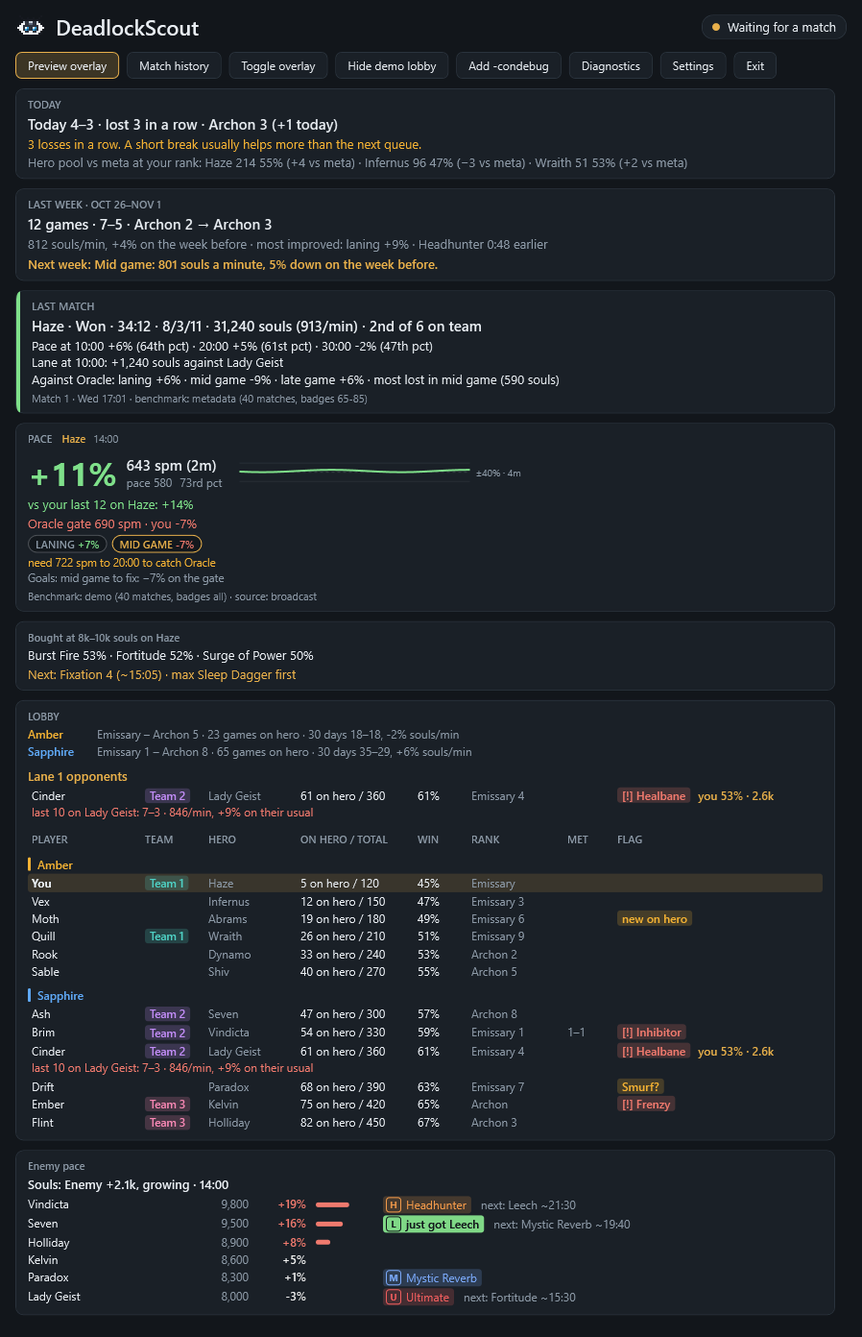
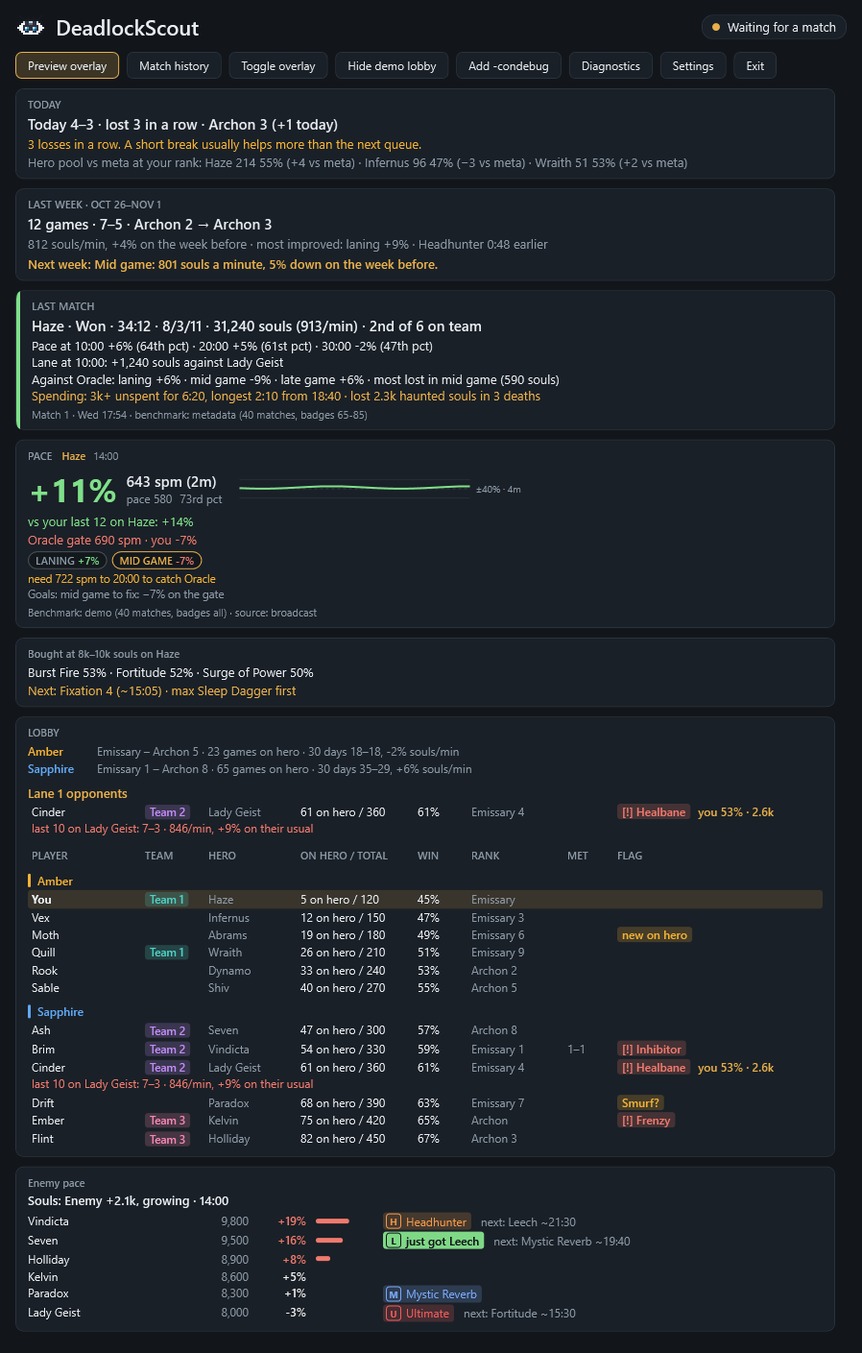
Coaching: souls lost at a death, and a spending recap for the last match (#141)
* Coaching: souls lost at a death, and a spending recap for the last match

Both chosen by the owner for 0.3.3. Core/Meter/SoulsRecap reads the match's
soul samples:
- a death on the HUD: the haunted line was there, the next reading has none and
  unspent souls fell by about as much (secured haunted souls join the count and
  leave unspent souls where they were, so they are no loss). The pace strip says
  "Died at 14:20: lost 1,051 haunted souls" for 30 s, and the log keeps it.
- time on unspent souls at or over coaching.unspentSouls, gaps counted at most
  10 s, with the longest stretch and when it began.
At the match's end the recap ("3k+ unspent for 6:20, longest 2:10 from 18:40 ·
lost 2.3k haunted souls in 3 deaths") is logged and shown on the last match's
card once its report comes. Not while spectating. The demo shows a recap.

Claude-Session: https://claude.ai/code/session_01LSDkBn23Na5vMSKWLtGadZ

* Update app screenshots

---------

diff --git a/src/DeadlockScout.App/Overlay/OverlayWindow.xaml b/src/DeadlockScout.App/Overlay/OverlayWindow.xaml
@@ -249,6 +249,8 @@
                                Visibility="{Binding Pace.CatchUp, Converter={x:Static vm:Converters.VisibleIfNotEmpty}}"/>
                     <TextBlock Text="{Binding Pace.Goals}" FontSize="11.5" Foreground="{StaticResource Muted}" Margin="0,1,0,0" TextWrapping="Wrap"
                                Visibility="{Binding Pace.Goals, Converter={x:Static vm:Converters.VisibleIfNotEmpty}}"/>
+                    <TextBlock Text="{Binding Pace.Loss}" FontSize="11.5" Foreground="{StaticResource Bad}" Margin="0,1,0,0" TextWrapping="Wrap"
+                               Visibility="{Binding Pace.Loss, Converter={x:Static vm:Converters.VisibleIfNotEmpty}}"/>
                     <TextBlock Text="{Binding Pace.Unspent}" FontSize="11.5" Foreground="{StaticResource Gold}" Margin="0,1,0,0" TextWrapping="Wrap"
                                ToolTip="Souls you have not spent yet: they do nothing in a fight. Settings → Overlay sets the threshold"
                                Visibility="{Binding Pace.Unspent, Converter={x:Static vm:Converters.VisibleIfNotEmpty}}"/>

diff --git a/src/DeadlockScout.App/MainWindow.xaml b/src/DeadlockScout.App/MainWindow.xaml
@@ -161,6 +161,8 @@
                                        Visibility="{Binding LastMatch.Lane, Converter={x:Static vm:Converters.VisibleIfNotEmpty}}"/>
                             <TextBlock Text="{Binding LastMatch.Phases}" TextWrapping="Wrap"
                                        Visibility="{Binding LastMatch.Phases, Converter={x:Static vm:Converters.VisibleIfNotEmpty}}"/>
+                            <TextBlock Text="{Binding LastMatch.Recap}" TextWrapping="Wrap" Foreground="{StaticResource Gold}"
+                                       Visibility="{Binding LastMatch.Recap, Converter={x:Static vm:Converters.VisibleIfNotEmpty}}"/>
                             <TextBlock Text="{Binding LastMatch.Footer}" FontSize="11" Foreground="{StaticResource Muted}" TextWrapping="Wrap" Margin="0,4,0,0"/>
                         </StackPanel>
                     </DockPanel>

diff --git a/src/DeadlockScout.Core/Meter/SoulsRecap.cs b/src/DeadlockScout.Core/Meter/SoulsRecap.cs
@@ -1,0 +1,113 @@
+using System.Globalization;
+using DeadlockScout.Core.Benchmarks;
+using DeadlockScout.Core.Models;
+
+namespace DeadlockScout.Core.Meter;
+
+/// <summary>A death seen on the HUD: the haunted souls it took.</summary>
+public sealed record HauntedLoss(TimeSpan At, int Souls);
+
+/// <summary>
+/// What a match's soul readings say about spending, for the match recap (0.3.3): how long you sat on unspent souls
+/// over the coaching threshold, and the haunted souls deaths took.
+/// <list type="bullet">
+/// <item>Unspent time: the game time between readings whose unspent souls were at or over the threshold, a gap counted
+/// at most <see cref="MaxGap"/> (OCR off, the game alt-tabbed), with the longest stretch and when it began.</item>
+/// <item>A death on the HUD: the haunted line was there (at least <see cref="MinHaunted"/>), the next reading has none,
+/// and your unspent souls fell by about as much (<see cref="LossShare"/> of it or more). Secured haunted souls move
+/// into the count instead and leave unspent souls where they were, so they are no loss.</item>
+/// </list>
+/// Fed with the soul source's samples in game-time order (OCR ones carry the haunted souls). Pure, so tested; nothing
+/// here is stored past the match.
+/// </summary>
+public sealed class SoulsRecap
+{
+    public static readonly TimeSpan MaxGap = TimeSpan.FromSeconds(10);
+    public const int MinHaunted = 100;
+    public const double LossShare = 0.8;
+    /// <summary>How long the pace strip names a death's loss.</summary>
+    public static readonly TimeSpan ShowLossFor = TimeSpan.FromSeconds(30);
+
+    private readonly int _threshold;
+    private readonly List<HauntedLoss> _losses = new();
+    private SoulSample? _last;
+    private TimeSpan _over, _longest, _stretch;
+    private TimeSpan? _stretchStart, _longestStart;
+    private readonly object _gate = new();
+
+    /// <param name="threshold">The unspent souls that count as sitting on them (<c>coaching.unspentSouls</c>); 0 counts none.</param>
+    public SoulsRecap(int threshold) => _threshold = threshold;
+
+    public IReadOnlyList<HauntedLoss> Losses { get { lock (_gate) return _losses.ToList(); } }
+
+    /// <summary>One soul sample; returns the loss when this reading shows a death took haunted souls.</summary>
+    public HauntedLoss? Observe(SoulSample s)
+    {
+        if (s.Unspent is not { } unspent) return null;
+        lock (_gate)
+        {
+            if (_last is { } prev && s.GameTime <= prev.GameTime) return null;
+            HauntedLoss? loss = null;
+            if (_last is { Unspent: { } before } p)
+            {
+                var dt = s.GameTime - p.GameTime;
+                if (dt > MaxGap) dt = MaxGap;
+                bool over = _threshold > 0 && before >= _threshold;
+                if (over)
+                {
+                    _over += dt;
+                    _stretchStart ??= p.GameTime;
+                    _stretch += dt;
+                    if (_stretch > _longest) { _longest = _stretch; _longestStart = _stretchStart; }
+                }
+                if (!over || _threshold <= 0 || unspent < _threshold) { _stretch = TimeSpan.Zero; _stretchStart = null; }
+
+                int haunted = p.Haunted ?? 0;
+                if (s.Source == SampleSource.Ocr && p.Source == SampleSource.Ocr && haunted >= MinHaunted && (s.Haunted ?? 0) == 0
+                    && before - unspent >= LossShare * haunted)
+                {
+                    loss = new HauntedLoss(s.GameTime, haunted);
+                    _losses.Add(loss);
+                }
+            }
+            _last = s;
+            return loss;
+        }
+    }
+
+    /// <summary>"Died at 14:20: lost 1,051 haunted souls" for <see cref="ShowLossFor"/> after a loss; null otherwise.</summary>
+    public string? LossLine(TimeSpan now)
+    {
+        lock (_gate)
+        {
+            if (_losses.Count == 0 || now - _losses[^1].At > ShowLossFor || now < _losses[^1].At) return null;
+            var l = _losses[^1];
+            return $"Died at {PaceMath.FormatClock(l.At)}: lost {l.Souls.ToString("N0", CultureInfo.InvariantCulture)} haunted souls";
+        }
+    }
+
+    /// <summary>
+    /// The recap: "3k+ unspent for 6:20, longest 2:10 from 18:40 · lost 2.3k haunted souls in 3 deaths". Null when there
+    /// is nothing to say (no time over the threshold and no loss).
+    /// </summary>
+    public string? Line()
+    {
+        lock (_gate)
+        {
+            var parts = new List<string>();
+            if (_over > TimeSpan.Zero && _threshold > 0)
+            {
+                string limit = _threshold % 1000 == 0 ? $"{_threshold / 1000}k" : TeamSoulsLead.Short(_threshold);
+                string part = $"{limit}+ unspent for {PaceMath.FormatClock(_over)}";
+                if (_longestStart is { } from && _longest < _over) part += $", longest {PaceMath.FormatClock(_longest)} from {PaceMath.FormatClock(from)}";
+                parts.Add(part);
+            }
+            if (_losses.Count > 0)
+            {
+                int total = _losses.Sum(l => l.Souls);
+                parts.Add($"lost {TeamSoulsLead.Short(total)} haunted souls in {_losses.Count} {(_losses.Count == 1 ? "death" : "deaths")}");
+            }
+            return parts.Count == 0 ? null : string.Join(" · ", parts);
+        }
+    }
+}

diff --git a/tests/DeadlockScout.Tests/Core/SoulsRecapTests.cs b/tests/DeadlockScout.Tests/Core/SoulsRecapTests.cs
@@ -1,0 +1,56 @@
+using DeadlockScout.Core.Meter;
+using DeadlockScout.Core.Models;
+
+namespace DeadlockScout.Tests.Core;
+
+public class SoulsRecapTests
+{
+    private static SoulSample Ocr(int seconds, int unspent, int? haunted = null) =>
+        new(TimeSpan.FromSeconds(seconds), 20_000, SampleSource.Ocr, unspent, haunted);
+
+    [Fact]
+    public void Time_on_unspent_souls_over_the_threshold_adds_up_with_the_longest_stretch()
+    {
+        var recap = new SoulsRecap(3_000);
+        // 10:00–10:59 under, 11:00–12:59 over (2:00), 13:00–13:59 under, 14:00–14:29 over (0:30).
+        for (int t = 600; t < 900; t++)
+            recap.Observe(Ocr(t, t is >= 660 and < 780 || t >= 840 && t < 870 ? 3_500 : 1_000));
+        Assert.Equal("3k+ unspent for 2:30, longest 2:00 from 11:00", recap.Line());
+    }
+
+    [Fact]
+    public void A_gap_counts_at_most_ten_seconds()
+    {
+        var recap = new SoulsRecap(3_000);
+        recap.Observe(Ocr(600, 4_000));
+        recap.Observe(Ocr(900, 4_000)); // five minutes without a reading
+        Assert.Equal("3k+ unspent for 0:10", recap.Line());
+    }
+
+    [Fact]
+    public void A_death_that_takes_the_haunted_souls_is_a_loss_and_securing_them_is_not()
+    {
+        var recap = new SoulsRecap(0);
+        recap.Observe(Ocr(600, 2_000, haunted: 1_051));
+        var loss = recap.Observe(Ocr(601, 949));          // died: the haunted line gone, unspent down by about as much
+        Assert.Equal(new HauntedLoss(TimeSpan.FromSeconds(601), 1_051), loss);
+        Assert.Equal("Died at 10:01: lost 1,051 haunted souls", recap.LossLine(TimeSpan.FromSeconds(620)));
+        Assert.Null(recap.LossLine(TimeSpan.FromSeconds(640)));   // shown for 30 s
+
+        recap.Observe(Ocr(700, 1_500, haunted: 600));
+        Assert.Null(recap.Observe(Ocr(701, 1_500)));      // secured: they joined the count, unspent unchanged
+        recap.Observe(Ocr(800, 3_000, haunted: 1_300));
+        Assert.NotNull(recap.Observe(Ocr(801, 1_700)));
+        Assert.Equal("lost 2.4k haunted souls in 2 deaths", recap.Line());
+    }
+
+    [Fact]
+    public void Nothing_to_say_without_time_over_or_losses()
+    {
+        var recap = new SoulsRecap(3_000);
+        for (int t = 0; t < 60; t++) recap.Observe(Ocr(t, 500));
+        Assert.Null(recap.Line());
+        Assert.Null(recap.Observe(new SoulSample(TimeSpan.FromSeconds(61), 9_000, SampleSource.LiveFeed))); // no unspent known
+        Assert.Null(recap.Observe(Ocr(30, 9_000)));       // out of order
+    }
+}

diff --git a/src/DeadlockScout.App/Services/MatchSession.cs b/src/DeadlockScout.App/Services/MatchSession.cs
@@ -145,6 +145,11 @@ public sealed class MatchSession : IDisposable
         if (_diagnostics.Snapshot().Match is { Performance: { } perf } m)
             _log.LogInformation("Performance during match {MatchId}{Spectated}: {Line}", m.MatchId, m.Spectating ? " (spectated)" : "", perf.Line);
         RecordPlayed(matchId);
+        if (_ctx is { Spectating: false } && _state.Recap.Line() is { } recap)
+        {
+            _log.LogInformation("Match {MatchId} spending: {Recap}", matchId, recap);
+            _state.SetRecap(matchId, recap);
+        }
         _matchCts?.Cancel();
         _feed.Stop(matchId);
         _gate.MatchEnded();
@@ -205,6 +210,7 @@ public sealed class MatchSession : IDisposable
             _state.Targets = !ctx.Spectating && _settings.CurrentValue.Overlay.Panels.LiveGoals ? _settings.CurrentValue.Targets : new TargetSettings();
             _state.UnspentThreshold = ctx.Spectating ? 0 : _settings.CurrentValue.Coaching.UnspentSouls;
             _state.HauntedThreshold = ctx.Spectating ? 0 : _settings.CurrentValue.Coaching.HauntedSouls;
+            _state.Recap = new SoulsRecap(ctx.Spectating ? 0 : _settings.CurrentValue.Coaching.UnspentSouls);
             var goalTask = heroId > 0 && !ctx.Spectating && _settings.CurrentValue.Goal.Overlay ? LoadGoalCurveAsync(heroId, me?.Rank, ct) : Task.CompletedTask;
             var nextItemTask = heroId > 0 && !ctx.Spectating && _settings.CurrentValue.Overlay.Panels.NextItem
                 ? LoadNextItemAsync(ctx.MyAccountId, heroId, me?.Rank, ct) : Task.CompletedTask;
@@ -499,6 +505,8 @@ public sealed class MatchSession : IDisposable
         {
             _state.Meter.Add(sample);
             _state.LatestSample = sample;
+            if (_ctx is { Spectating: false } && _state.Recap.Observe(sample) is { } loss)
+                _log.LogInformation("Died at {At}: lost {Souls:N0} haunted souls (seen on the HUD)", PaceMath.FormatClock(loss.At), loss.Souls);
             _state.Pace.SourceLabel = sample.Source == SampleSource.Ocr ? "OCR" : "broadcast";
             if (sample.Source == SampleSource.Ocr)
             {

diff --git a/src/DeadlockScout.App/ViewModels/OverlayState.cs b/src/DeadlockScout.App/ViewModels/OverlayState.cs
@@ -94,6 +94,12 @@ public sealed class OverlayState
     /// after souls lost at a death): the unspent-souls line reads it.
     /// </summary>
     public volatile SoulSample? LatestSample;
+    /// <summary>This match's spending recap and haunted losses (<see cref="SoulsRecap"/>), fed with every soul sample.</summary>
+    public volatile SoulsRecap Recap = new(0);
+    private readonly System.Collections.Concurrent.ConcurrentDictionary<long, string> _recaps = new();
+
+    /// <summary>Keeps a finished match's recap line for its card once the post-match report comes.</summary>
+    public void SetRecap(long matchId, string line) => _recaps[matchId] = line;
     public volatile int MyDeathsRaw = -1;
     public int? MyDeaths { get => MyDeathsRaw < 0 ? null : MyDeathsRaw; set => MyDeathsRaw = value ?? -1; }
     public static readonly TimeSpan MatchRetention = TimeSpan.FromHours(2);
@@ -310,6 +316,7 @@ public sealed class OverlayState
         LastMatch.Phases = PhaseLine(r);
         LastMatch.Footer = $"Match {r.MatchId} · {r.StartTime.ToLocalTime():ddd HH:mm}" +
                            (r.BenchmarkProvider is { } prov ? $" · benchmark: {prov} ({r.BenchmarkSampleSize} matches, badges {r.Bracket})" : "");
+        LastMatch.Recap = _recaps.TryGetValue(r.MatchId, out var recap) ? "Spending: " + recap : "";
         LastMatch.Won = r.Won;
         LastMatch.HasData = true;
     }
@@ -323,6 +330,7 @@ public sealed class OverlayState
         var current = all.LastOrDefault(p => p.To == now && (Phases.End(p.Phase) is not { } e || now < e));
         Pace.Goals = Meter.Latest is { } latest ? LiveGoals.Line(Targets, now, latest.Souls, MyDeaths, current) ?? "" : "";
         Pace.Unspent = UnspentSouls.Line(LatestSample, UnspentThreshold, HauntedThreshold) ?? "";
+        Pace.Loss = LatestSample is { } newest ? Recap.LossLine(newest.GameTime) ?? "" : "";
         foreach (var (slot, i) in Pace.PhaseSlots.Select((s, i) => (s, i)))
         {
             var p = live.FirstOrDefault(r => (int)r.Phase == i);

diff --git a/src/DeadlockScout.App/ViewModels/PanelViewModels.cs b/src/DeadlockScout.App/ViewModels/PanelViewModels.cs
@@ -92,6 +92,9 @@ public sealed class PaceStripViewModel : ObservableObject
     /// <summary>"need 640 spm to 20:00 to catch Oracle", while behind in a phase that has an end; else empty.</summary>
     public string CatchUp { get => _catchUp; set => Set(ref _catchUp, value); }
     private string _goals = "";
+    private string _loss = "";
+    /// <summary>"Died at 14:20: lost 1,051 haunted souls" for half a minute after a death took them, or empty.</summary>
+    public string Loss { get => _loss; set => Set(ref _loss, value); }
     /// <summary>"Goals: on track for 420 spm by 10:00 · one laning death left", or empty.</summary>
     public string Goals { get => _goals; set => Set(ref _goals, value); }
     private string _unspent = "";
@@ -214,6 +217,9 @@ public sealed class PostMatchViewModel : ObservableObject
     private bool _hasData;
     /// <summary>"Haze · Won · 34:12 · 8/3/11 · 31,240 souls (913/min) · 2nd of 6 on team".</summary>
     public string Title { get => _title; set => Set(ref _title, value); }
+    private string _recap = "";
+    /// <summary>"Spending: 3k+ unspent for 6:20, longest 2:10 from 18:40 · lost 2.3k haunted souls in 3 deaths", or empty.</summary>
+    public string Recap { get => _recap; set => Set(ref _recap, value); }
     /// <summary>"Pace at 10:00 +6% (64th pct) · 20:00 +3% · 30:00 −2%".</summary>
     public string Pace { get => _pace; set => Set(ref _pace, value); }
     /// <summary>"Lane at 10:00: +1,240 souls against Lady Geist".</summary>

diff --git a/src/DeadlockScout.App/Services/DemoLobby.cs b/src/DeadlockScout.App/Services/DemoLobby.cs
@@ -139,6 +139,8 @@ public static class DemoLobby
             new[] { new PhaseChange(GamePhase.Laning, 690, 752), new PhaseChange(GamePhase.Mid, 840, 801), new PhaseChange(GamePhase.Late, 990, 1004) },
             new PhaseChange(GamePhase.Laning, 690, 752), new ItemChange(4053935515, new TimeSpan(0, 15, 9), new TimeSpan(0, 14, 21), 6),
             new WeeklyFocus(FocusKind.Phase, "Mid game: 801 souls a minute, 5% down on the week before.")), assets, demo: true);
+        // That match's spending recap, from its soul readings (made up).
+        state.SetRecap(1, "3k+ unspent for 6:20, longest 2:10 from 18:40 · lost 2.3k haunted souls in 3 deaths");
         // The previous match's report, as it appears once the API has processed a match.
         state.SetLastMatch(new PostMatchReport(1, 13, true, DateTimeOffset.Now.AddMinutes(-52), new TimeSpan(0, 34, 12), 8, 3, 11, 31240, 2, 6,
             new[]

diff --git a/docs/features.md b/docs/features.md
@@ -13,7 +13,7 @@ window.
 - **Build hint**: what your hero's players buy at your current souls, with their win rate, and your next usual ability point. Under it, the **next item nudge**: your usual next big item on this hero (3,000 souls and up, from your last 30 games, skipping what you already own) and when the rank gate's players have it, "Next: Fortitude · Oracle has it by 14:44 · in 0:24", gold 30 s before and red once you are past it. With the rank's soul curve it says it **at your pace** instead (0.3): how long, at your souls per minute over the last two minutes, until you have the souls the rank's players have when they buy it ("Next: Fortitude ~2:10 at your pace · Oracle 16:30", or "you have Oracle's souls for it"); not once you are past the rank's time, and none beyond ten minutes. It compares net worth with net worth, so it needs no guess at how many of your souls are unspent. `overlay.panels.nextItem` turns it off.
 - **Real-time souls by OCR** (M6, opt in): draw boxes over your soul count, the match clock and the enemy scoreboard souls, and the built-in Windows OCR reads them once a second, so your pace no longer lags the broadcast by a minute. The HUD's counter is your unspent souls, so the app adds the price of the items the broadcast says you hold, and of anything you bought since (a drop of about one item's price, read twice), to make it your net worth, which is what the pace curves count (0.3); haunted souls (unsecured: spendable, lost if you die), shown in a smaller line under the count, are read and added to your unspent souls, and the "SOULS" label beside the count is left out (0.3.1); Diagnostics' "OCR net worth" line says how close that came to the broadcast's once it caught up. While you are dead the game shows a teammate's souls in your HUD's place; those readings are held back (up to two minutes by the PC's clock, so a misread match clock cannot cut the hold short) and dropped, so cycling through teammates no longer moves your souls per minute. The clock read off the HUD has to follow the last good one (never backwards, never further ahead than the real time since), so a misread clock ("22:52" for 12:52) never places your souls at the wrong time: one digit off, it is put right to the clock that was due (0.3.3; OCR mixes up 9 and 0, 7 and 3, 1 and 2), and further off its whole reading is dropped; the log counts the clock readings ignored. The calibration tool reads the selected box live and says what is wrong with it: red when the reading is not a number (or a clock), gold when the box also reads something besides the number ("768 9": a stray glyph) or when its readings jump in a way the game never does (768 then 7,689: the soul icon read as a digit now and then), blue with "steady" when it reads cleanly. **Glyph reader** (0.3): each steady reading also teaches the app the HUD's digits, and once it knows all ten it reads the souls and the clock itself, a few pixels' comparison instead of a full OCR engine, asking Windows OCR only for a box it cannot read clearly (so with clean boxes Windows OCR never even loads). The clock and the souls count are drawn in different fonts, so each box learns its own digits (0.3.1): keep the match clock selected in the tool for ten seconds or so while it ticks and it learns the clock's; the souls count learns its own as your souls change, in the tool or during a match from readings that pass the app's checks. The tool's line under the reading says what the selected box still misses, and **Teach this box again** under it forgets that box's glyphs to learn them afresh (after a patch changed the HUD font) (0.3.3). During a match, a box that reads nothing for 45 s while the game is in front (drawn wrong, or the HUD moved) is named once in the tray (0.3.3); a click opens the calibration tool. The souls box's preview outlines what is read (0.3.3): the count in blue, the soul icon in grey once the glyph reader has learned it (an extra glyph left of the number that the readings never include; from then on it is cut off before every read, so the box may start at the icon), and haunted souls in red. Diagnostics shows how many reads it answers, and asks for a recalibration when most of them fall back (a patch changed the HUD font). `ocr.glyphReader` in Settings → OCR turns it off. Only those boxes are ever captured, never the rest of the screen, and nothing while OCR is off. Needs Windows 10 2004 or later and a Windows language with OCR support (English is).
 - **Post-match report**: result, K/D/A, souls per minute, where you ranked on your team, your pace against the benchmark at 10, 20 and 30 minutes, how your lane went, and each phase against the rank above yours ("Against Oracle: laning +6% · mid game −9% · late game +6% · most lost in mid game"), shown in the main window and as a tray notice once deadlock-api has the match. Replay salts from your Steam cache are sent to deadlock-api automatically (once per match; `ingest.autoSubmitSalts`) so your matches get on record; they land in Steam's cache when you open a match in Deadlock's in-game match history, and **Send my matches to deadlock-api** in the match history sends them at once and says what it found (Diagnostics shows the last scan).
-- **Match history**: your last 20 games with your rank over 30 days, win rate, KDA, main heroes and the last 15 results, then a card per game (result, hero, K/D/A, final items, souls and souls per minute, last hits, where your souls ranked on your team, both teams). Each card puts your total souls beside the K/D/A. Open a game for its **soul timeline** (your souls through the match, with every item you bought marked where you bought it, coloured by slot, and a dashed **rank gate**: the average souls on that hero of a rank you pick from a drop-down, Eternus down to Alchemist, starting on the tier above yours, with how far above or below it you finished, split into laning, mid game and late game chips; the timeline marks the three phases) and its **item purchases** in order, sold ones included. An **item timings** card lists the items you buy most with your average buy time against the rank gate's ("Headhunter 13:58 · Oracle 12:07 · +1:51"), and names the item furthest behind; each purchase on an opened game shows the rank's time and your gap too. A **phases** card pools laning (0–10 min), mid game (10–20) and late game (20+) over the page's games against the rank gate: your souls per minute and the rank's in each, how many souls a game you are behind or ahead, and which phase costs you the most. Above the cards, **trends** over your last 20, 50 or 100 games, for all heroes or one: rolling win rate and souls per minute (each game a dot coloured by result), the older half against the newer half for win rate, souls per minute and KDA, and a row per hero (games, W–L, win rate, KDA, souls per minute, last played), all from the history already fetched. **Soul sources**: an opened game lists where its souls came from (troopers, jungle, kills, objectives, the rest, and what you lost on death), each against the rank gate, and a card over the page names the source that costs you the most souls a game ("Troopers cost you the most: 1.2k souls a game behind Oracle"). **Weekly summary**: a "last week" card in the main window sets your last full week against the week before (games, record, rank change, souls per minute, the phase and item that improved most) and names one thing to work on next week. **Goals**: set your own targets in the match history (laning pace by 10:00, at most so many deaths in laning, a phase to fix against the rank gate); every game is marked hit or missed, and the card shows each target's hit rate over your last 20 games with a dot per game. During a match (0.3) the pace strip checks them live under the phase chips: "Goals: on track for 420 spm by 10:00 · one laning death left" (or the pace the rest of laning needs), then, while the phase you chose to fix is on, "mid game to fix: −7% on the gate". Your deaths come from the broadcast; not while spectating; `overlay.panels.liveGoals` turns it off. **Unspent souls** (0.3): from 3,000 souls not spent (Settings → Overlay, `coaching.unspentSouls`; 0 turns it off) the pace strip says "3.4k unspent: spend before you fight", live from the HUD's counter with OCR on, else from the broadcast's net worth less the items held, with its game time since it is about 35 s late. **Haunted souls at risk** (0.3.3): haunted souls are lost if you die, so from 1,000 of them (`coaching.hauntedSouls`, read by OCR) the line adds "1.1k of it haunted, lost if you die", or says "1.2k haunted souls: lost if you die, spend or secure them" on its own. **Death review**: each death on an opened game with the souls you were carrying unspent (red at 3k or more) and a cross on the soul timeline, the souls the rank gate gained while you were dead, and a card over the page ("Spend before you fight: 9 of 24 deaths came with 3k or more souls unspent"). **Counter notes**: an opened game lists each enemy hero with their counter items for the hero you played (the same measured items as the scout list's [!] tags, up to three, each marked bought or not in that game), and a **heroes that beat you** card names the enemy heroes you lose to most over the page (your W–L with them in the enemy line-up) with their counter items. One cached call per hero pair, made when a game is first opened. One bulk call fetches the games not seen before; a finished game is cached for good. **Processing cards**: a game you just played shows at the top straight away (hero, when, roughly how long), even before deadlock-api lists it in your history, which can take hours; it becomes a full card as soon as the API has the match, and the post-match follow-up asks deadlock-api to fetch it from Steam twice (8 and 60 minutes after the match) when nobody else has sent it. From the main window or the tray.
+- **Match history**: your last 20 games with your rank over 30 days, win rate, KDA, main heroes and the last 15 results, then a card per game (result, hero, K/D/A, final items, souls and souls per minute, last hits, where your souls ranked on your team, both teams). Each card puts your total souls beside the K/D/A. Open a game for its **soul timeline** (your souls through the match, with every item you bought marked where you bought it, coloured by slot, and a dashed **rank gate**: the average souls on that hero of a rank you pick from a drop-down, Eternus down to Alchemist, starting on the tier above yours, with how far above or below it you finished, split into laning, mid game and late game chips; the timeline marks the three phases) and its **item purchases** in order, sold ones included. An **item timings** card lists the items you buy most with your average buy time against the rank gate's ("Headhunter 13:58 · Oracle 12:07 · +1:51"), and names the item furthest behind; each purchase on an opened game shows the rank's time and your gap too. A **phases** card pools laning (0–10 min), mid game (10–20) and late game (20+) over the page's games against the rank gate: your souls per minute and the rank's in each, how many souls a game you are behind or ahead, and which phase costs you the most. Above the cards, **trends** over your last 20, 50 or 100 games, for all heroes or one: rolling win rate and souls per minute (each game a dot coloured by result), the older half against the newer half for win rate, souls per minute and KDA, and a row per hero (games, W–L, win rate, KDA, souls per minute, last played), all from the history already fetched. **Soul sources**: an opened game lists where its souls came from (troopers, jungle, kills, objectives, the rest, and what you lost on death), each against the rank gate, and a card over the page names the source that costs you the most souls a game ("Troopers cost you the most: 1.2k souls a game behind Oracle"). **Weekly summary**: a "last week" card in the main window sets your last full week against the week before (games, record, rank change, souls per minute, the phase and item that improved most) and names one thing to work on next week. **Goals**: set your own targets in the match history (laning pace by 10:00, at most so many deaths in laning, a phase to fix against the rank gate); every game is marked hit or missed, and the card shows each target's hit rate over your last 20 games with a dot per game. During a match (0.3) the pace strip checks them live under the phase chips: "Goals: on track for 420 spm by 10:00 · one laning death left" (or the pace the rest of laning needs), then, while the phase you chose to fix is on, "mid game to fix: −7% on the gate". Your deaths come from the broadcast; not while spectating; `overlay.panels.liveGoals` turns it off. **Unspent souls** (0.3): from 3,000 souls not spent (Settings → Overlay, `coaching.unspentSouls`; 0 turns it off) the pace strip says "3.4k unspent: spend before you fight", live from the HUD's counter with OCR on, else from the broadcast's net worth less the items held, with its game time since it is about 35 s late. **Haunted souls at risk** (0.3.3): haunted souls are lost if you die, so from 1,000 of them (`coaching.hauntedSouls`, read by OCR) the line adds "1.1k of it haunted, lost if you die", or says "1.2k haunted souls: lost if you die, spend or secure them" on its own. **Souls lost at a death** (0.3.3): when the haunted line vanishes and your unspent souls fall by about as much, a death took them, and the pace strip says "Died at 14:20: lost 1,051 haunted souls" for half a minute (OCR only). **Spending recap** (0.3.3): the last match's card adds "Spending: 3k+ unspent for 6:20, longest 2:10 from 18:40 · lost 2.3k haunted souls in 3 deaths", from that match's soul readings. **Death review**: each death on an opened game with the souls you were carrying unspent (red at 3k or more) and a cross on the soul timeline, the souls the rank gate gained while you were dead, and a card over the page ("Spend before you fight: 9 of 24 deaths came with 3k or more souls unspent"). **Counter notes**: an opened game lists each enemy hero with their counter items for the hero you played (the same measured items as the scout list's [!] tags, up to three, each marked bought or not in that game), and a **heroes that beat you** card names the enemy heroes you lose to most over the page (your W–L with them in the enemy line-up) with their counter items. One cached call per hero pair, made when a game is first opened. One bulk call fetches the games not seen before; a finished game is cached for good. **Processing cards**: a game you just played shows at the top straight away (hero, when, roughly how long), even before deadlock-api lists it in your history, which can take hours; it becomes a full card as soon as the API has the match, and the post-match follow-up asks deadlock-api to fetch it from Steam twice (8 and 60 minutes after the match) when nobody else has sent it. From the main window or the tray.
 - **Session view**: today's wins and losses, your streak, how your rank moved, a nudge after three losses in a row, and your most played heroes against their meta win rate at your rank. In the overlay only outside a match, and in the main window.
 - **Benchmarks ready at match start**: between matches the app prefetches the accurate and personal pace curves for the heroes you play most.
 - **Team souls lead** (0.3): at the top of the enemy pace board, one line with both teams' souls from the broadcast and how the gap moved over the last three minutes ("Souls: Enemy +2.1k, growing · 14:00"; "closing" when the trailing team gains, "steady" within 500), so a fight or an objective that swung the game shows. As late as everything from the broadcast, so it carries its game time; shown once every player has been seen; spectating it names Amber or Sapphire. `overlay.panels.teamLead` turns it off.

diff --git a/docs/roadmap.md b/docs/roadmap.md
@@ -196,6 +196,11 @@ Carried over from 0.2:
 - [x] Haunted souls at risk (the owner, Nov 4): from `coaching.hauntedSouls` (1,000) haunted souls, the unspent-souls
   line adds "1.1k of it haunted, lost if you die", or warns on its own below the unspent threshold; read by OCR
   (`SoulSample.Haunted`), so only with OCR on.
+- [x] Souls lost at a death and a spending recap (the owner, Nov 4): `SoulsRecap` reads the match's soul samples. A
+  death that takes haunted souls (the haunted line gone and unspent souls down by about as much; secured ones leave
+  them where they were) shows in the pace strip for 30 s ("Died at 14:20: lost 1,051 haunted souls"), and the last
+  match's card adds the time spent on `coaching.unspentSouls`+ unspent souls, its longest stretch, and the haunted
+  souls deaths took.
 - [x] What OCR reads, shown, and the soul icon skipped (the owner, Nov 4): the calibration tool's preview of the souls
   box outlines the count it reads (blue), the soul icon it skips (grey) and the haunted line (red) (`SoulsLine.Outline`).
   The icon is learned, not guessed: a glyph left of the number in three readings whose text left it out (and that is
